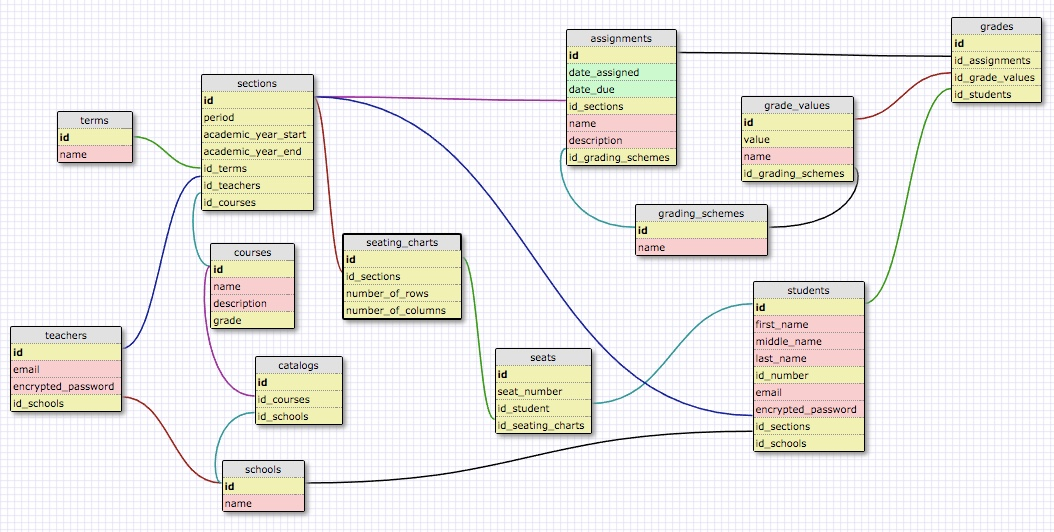
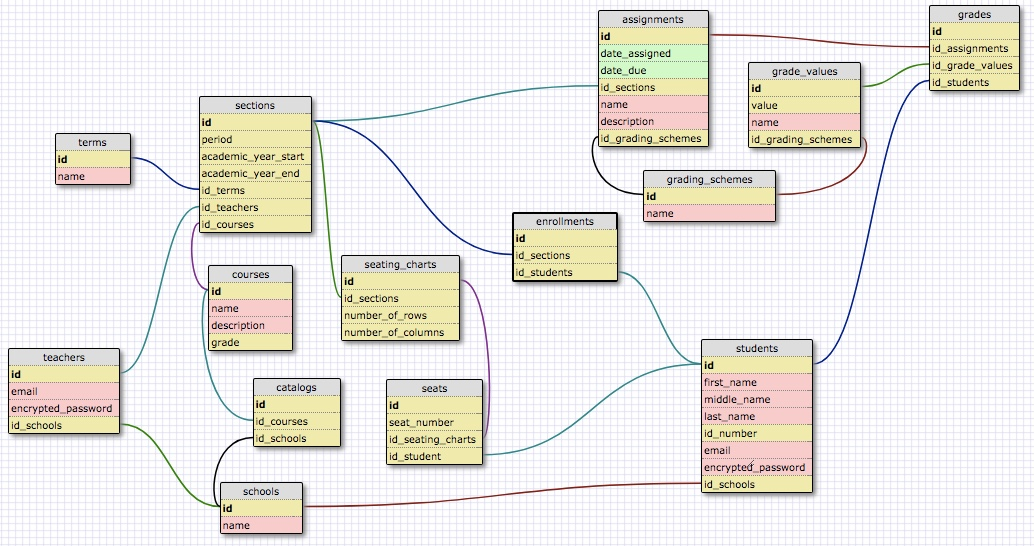
Midway through database update with seating charts and enrollments

diff --git a/app/assets/javascripts/sections/components/section.js b/app/assets/javascripts/sections/components/section.js
@@ -27,6 +27,7 @@ var Section = function(props) {
       dataType: 'json'
     })
     .done(function(r) {
+      console.log(r)
       initSection(r.section);
       initStudents(r.students);
       initSeats(r.seats);

diff --git a/app/models/section.rb b/app/models/section.rb
@@ -2,14 +2,13 @@ class Section < ApplicationRecord
   belongs_to :course
   belongs_to :teacher
   belongs_to :term
-  has_many :seats, -> { order(:id) }
+  has_one :seating_chart
+  has_many :enrollments
+  has_many :students, through: :enrollments
   has_many :assignments
-  has_many :students, through: :seats
   has_one :school, through: :teacher
 
   validates :period, :term_id, :course_id, :academic_year_start, :academic_year_end, presence: true
-
-  accepts_nested_attributes_for :seats
 
   def course_name
     self.course.name

diff --git a/app/models/student.rb b/app/models/student.rb
@@ -7,8 +7,8 @@ class Student < ApplicationRecord
   belongs_to :school
   has_many :grades
   has_many :assignments, through: :grades
-  has_many :seats
-  has_many :sections, through: :seats
+  has_many :enrollments
+  has_many :sections, through: :enrollments
   has_many :teachers, through: :sections
   has_many :grade_values, through: :grades
   

diff --git a/db/migrate/20170823211644_create_seating_charts.rb b/db/migrate/20170823211644_create_seating_charts.rb
@@ -1,0 +1,10 @@
+class CreateSeatingCharts < ActiveRecord::Migration[5.1]
+  def change
+    create_table :seating_charts do |t|
+      t.integer :number_of_rows, default: 5
+      t.integer :number_of_columns, default: 6
+      t.integer :section_id, null: false
+
+    end
+  end
+end

diff --git a/app/models/seat.rb b/app/models/seat.rb
@@ -1,6 +1,6 @@
 class Seat < ApplicationRecord
   belongs_to :student
-  belongs_to :section
+  belongs_to :seating_chart
 
   def render
     seat = "<div class='seat box is-paddingless has-text-centered'><p class='name'>#{self.student.first_name}<p></div>"

diff --git a/db/migrate/20170823212010_remove_number_of_rows_and_number_of_columns_from_sections.rb b/db/migrate/20170823212010_remove_number_of_rows_and_number_of_columns_from_sections.rb
@@ -1,0 +1,6 @@
+class RemoveNumberOfRowsAndNumberOfColumnsFromSection < ActiveRecord::Migration[5.1]
+  def change
+    remove_column :sections, :number_of_rows, :integer
+    remove_column :sections, :number_of_columns, :integer
+  end
+end

diff --git a/db/migrate/20170823215233_create_enrollments.rb b/db/migrate/20170823215233_create_enrollments.rb
@@ -1,0 +1,8 @@
+class CreateEnrollments < ActiveRecord::Migration[5.1]
+  def change
+    create_table :enrollments do |t|
+      t.integer :student_id
+      t.integer :section_id
+    end
+  end
+end

diff --git a/app/models/seating_chart.rb b/app/models/seating_chart.rb
@@ -1,0 +1,6 @@
+class SeatingChart < ApplicationRecord
+  belongs_to :section
+  has_many :seats, -> { order(:id) }
+  
+  accepts_nested_attributes_for :seats
+end

diff --git a/db/migrate/20170823214242_add_seating_chart_id_to_seats.rb b/db/migrate/20170823214242_add_seating_chart_id_to_seats.rb
@@ -1,0 +1,5 @@
+class AddSeatingChartIdToSeats < ActiveRecord::Migration[5.1]
+  def change
+    add_column :seats, :seating_chart_id, :integer
+  end
+end

diff --git a/db/migrate/20170823214222_remove_section_id_from_seats.rb b/db/migrate/20170823214222_remove_section_id_from_seats.rb
@@ -1,0 +1,5 @@
+class RemoveSectionIdFromSeats < ActiveRecord::Migration[5.1]
+  def change
+    remove_column :seats, :section_id, :integer
+  end
+end

diff --git a/app/models/enrollment.rb b/app/models/enrollment.rb
@@ -1,0 +1,4 @@
+class Enrollment < ApplicationRecord
+  belongs_to :student
+  belongs_to :section
+end
